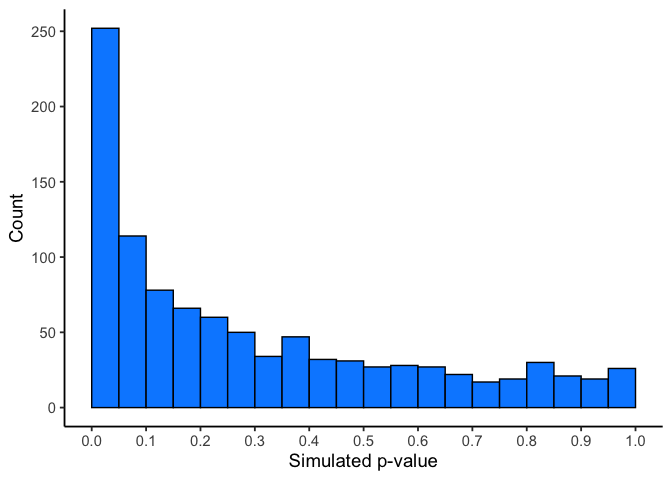
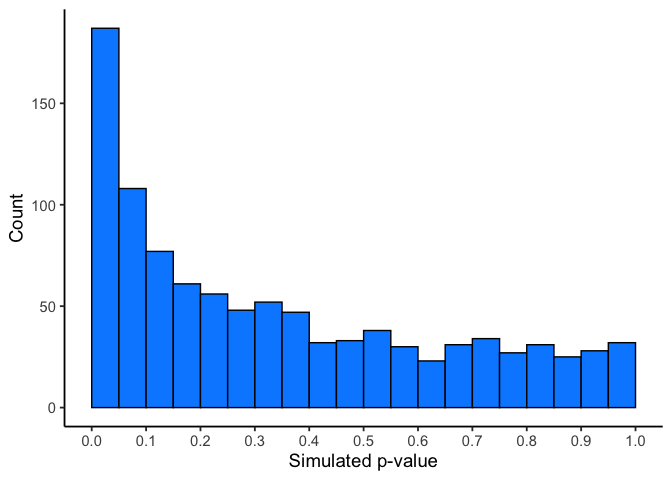
Ch6 simulation section: cut repeats, power becomes a callback to Ch5
Cut fig-6nullt (repeats fig-6t-sim), the replicate() and data-generation
code chunks, the visible power loops, raw count output, and the n = 100
rerun with fig-6simpsB. fig-6flatp gains the Type I tie (first bar = alpha).
fig-6simtrueps now uses Ch5's settings (10 vs 12.5, SD 5, n = 10) with
hidden code. Devices triage 6.13-6.21 / X3, X4.

diff --git a/docs/06-ttests.html b/docs/06-ttests.html
@@ -931,7 +931,7 @@ Table&nbsp;6.1: The three <span class="math inline">\(t\)</span>-tests compared.
 </section>
 <section id="simulating-data-for-t-tests" class="level2" data-number="6.6">
 <h2 data-number="6.6" class="anchored" data-anchor-id="simulating-data-for-t-tests"><span class="header-section-number">6.6</span> Simulating data for t-tests</h2>
-<p>Chapter 4 simulated <em>group mean differences</em> to build a chance window. Here we simulate the test statistic itself, which shows two things the earlier simulation could not: what the null distribution of <span class="math inline">\(t\)</span> looks like, and what happens to <span class="math inline">\(p\)</span>-values when <span class="math inline">\(H_0\)</span> is true.</p>
+<p>Earlier in this chapter we simulated <span class="math inline">\(t\)</span> under <span class="math inline">\(H_0\)</span> and saw its null distribution in <a href="#fig-6t-sim" class="quarto-xref">Figure&nbsp;<span>6.2</span></a>. The same kind of simulation also gives a <span class="math inline">\(p\)</span>-value for each repetition, and those <span class="math inline">\(p\)</span>-values show what a test does when <span class="math inline">\(H_0\)</span> is true and when it is false.</p>
 <p>Simulating under conditions you choose shows how sampling error affects results for a given sample size, expected difference, and amount of variation. Formal power analyses use the same method.</p>
 <section id="simulating-a-one-sample-t-test" class="level3" data-number="6.6.1">
 <h3 data-number="6.6.1" class="anchored" data-anchor-id="simulating-a-one-sample-t-test"><span class="header-section-number">6.6.1</span> Simulating a one-sample t-test</h3>
@@ -940,21 +940,7 @@ Table&nbsp;6.1: The three <span class="math inline">\(t\)</span>-tests compared.
 <li>Decide what the population looks like. Here each sample is 30 sites, with values drawn from a normal distribution with mean 50 and SD 25.</li>
 <li>Draw one sample from that population, run the <span class="math inline">\(t\)</span>-test, and save the statistics you care about (<span class="math inline">\(t\)</span> and <span class="math inline">\(p\)</span>). Repeat 1,000 times and look at how they are distributed.</li>
 </ol>
-<p>Every test compares the sample mean to <span class="math inline">\(\mu_0 = 50\)</span>, which is also the true population mean, so <span class="math inline">\(H_0\)</span> is true in every repetition. <a href="#fig-6nullt" class="quarto-xref">Figure&nbsp;<span>6.8</span></a> is the null distribution of <span class="math inline">\(t\)</span> that this produces.</p>
-<div class="cell">
-<div class="cell-output-display">
-<div id="fig-6nullt" class="quarto-float quarto-figure quarto-figure-center anchored" alt="Histogram of 1000 simulated t statistics from samples with no true effect, symmetric and bell-shaped, centered at zero, with fewer and fewer values as t moves further from zero in either direction.">
-<figure class="quarto-float quarto-float-fig figure">
-<div aria-describedby="fig-6nullt-caption-0ceaefa1-69ba-4598-a22c-09a6ac19f8ca">
-<img src="06-ttests_files/figure-html/fig-6nullt-1.png" class="img-fluid figure-img" style="width:75.0%" alt="Histogram of 1000 simulated t statistics from samples with no true effect, symmetric and bell-shaped, centered at zero, with fewer and fewer values as t moves further from zero in either direction.">
-</div>
-<figcaption class="quarto-float-caption-bottom quarto-float-caption quarto-float-fig" id="fig-6nullt-caption-0ceaefa1-69ba-4598-a22c-09a6ac19f8ca">
-Figure&nbsp;6.8: The distribution of <span class="math inline">\(t\)</span>-values under the null. These are the <span class="math inline">\(t\)</span> values that are produced by chance alone.
-</figcaption>
-</figure>
-</div>
-</div>
-</div>
+<p>Every test compares the sample mean to <span class="math inline">\(\mu_0 = 50\)</span>, which is also the true population mean, so <span class="math inline">\(H_0\)</span> is true in every repetition. <a href="#fig-6flatp" class="quarto-xref">Figure&nbsp;<span>6.8</span></a> shows the 1,000 <span class="math inline">\(p\)</span>-values it produces.</p>
 <div class="cell">
 <div class="cell-output-display">
 <div id="fig-6flatp" class="quarto-float quarto-figure quarto-figure-center anchored" alt="Histogram of 1000 simulated p-values from samples with no true effect, roughly flat across the full range from 0 to 1, with bars of similar height in every bin including the bin closest to zero.">
@@ -963,44 +949,19 @@ Figure&nbsp;6.8: The distribution of <span class="math inline">\(t\)</span>-valu
 <img src="06-ttests_files/figure-html/fig-6flatp-1.png" class="img-fluid figure-img" style="width:75.0%" alt="Histogram of 1000 simulated p-values from samples with no true effect, roughly flat across the full range from 0 to 1, with bars of similar height in every bin including the bin closest to zero.">
 </div>
 <figcaption class="quarto-float-caption-bottom quarto-float-caption quarto-float-fig" id="fig-6flatp-caption-0ceaefa1-69ba-4598-a22c-09a6ac19f8ca">
-Figure&nbsp;6.9: The distribution of <span class="math inline">\(p\)</span>-values that are observed is flat under the null.
+Figure&nbsp;6.8: The distribution of <span class="math inline">\(p\)</span>-values that are observed is flat under the null.
 </figcaption>
 </figure>
 </div>
 </div>
 </div>
-<p>The simulated <span class="math inline">\(t\)</span> values in <a href="#fig-6nullt" class="quarto-xref">Figure&nbsp;<span>6.8</span></a> have the bell shape of a <span class="math inline">\(t\)</span> distribution, centered on zero. The <span class="math inline">\(p\)</span>-values in <a href="#fig-6flatp" class="quarto-xref">Figure&nbsp;<span>6.9</span></a> are flat, as they should be when <span class="math inline">\(H_0\)</span> is true. This means you have the same chance of getting a <span class="math inline">\(t\)</span> with a p-value between 0 and 0.05 as you would of getting one between 0.90 and 0.95. Those ranges are both ranges of 5%, so they hold an equal share of the <span class="math inline">\(t\)</span> values by definition.</p>
-<p>You can write the same simulation more compactly with <code>replicate()</code> instead of a <code>for</code> loop; it produces the same two distributions above:</p>
-<div class="cell">
-<div class="code-copy-outer-scaffold"><div class="sourceCode cell-code" id="cb2"><pre class="sourceCode r code-with-copy"><code class="sourceCode r"><span id="cb2-1"><a href="#cb2-1" aria-hidden="true" tabindex="-1"></a>simulated_ts <span class="ot">&lt;-</span> <span class="fu">replicate</span>(<span class="dv">1000</span>, <span class="fu">t.test</span>(<span class="fu">rnorm</span>(<span class="dv">30</span>, <span class="dv">50</span>, <span class="dv">25</span>), <span class="at">mu =</span> <span class="dv">50</span>)<span class="sc">$</span>statistic)</span>
-<span id="cb2-2"><a href="#cb2-2" aria-hidden="true" tabindex="-1"></a>simulated_ps <span class="ot">&lt;-</span> <span class="fu">replicate</span>(<span class="dv">1000</span>, <span class="fu">t.test</span>(<span class="fu">rnorm</span>(<span class="dv">30</span>, <span class="dv">50</span>, <span class="dv">25</span>), <span class="at">mu =</span> <span class="dv">50</span>)<span class="sc">$</span>p.value)</span></code></pre></div><button title="Copy to Clipboard" class="code-copy-button"><i class="bi"></i></button></div>
-</div>
+<p>The <span class="math inline">\(p\)</span>-values in <a href="#fig-6flatp" class="quarto-xref">Figure&nbsp;<span>6.8</span></a> are flat, as they should be when <span class="math inline">\(H_0\)</span> is true. This means you have the same chance of getting a <span class="math inline">\(t\)</span> with a p-value between 0 and 0.05 as you would of getting one between 0.90 and 0.95. Those ranges are both ranges of 5%, so they hold an equal share of the <span class="math inline">\(t\)</span> values by definition.</p>
+<p>The first bar holds the 45 <span class="math inline">\(p\)</span>-values below 0.05. Each one is a test that rejected a true <span class="math inline">\(H_0\)</span>, a Type I error. Together they make up about 5% of the 1,000, which is the <span class="math inline">\(\alpha\)</span> we chose.</p>
 </section>
 <section id="simulating-paired-and-independent-samples-tests" class="level3" data-number="6.6.2">
 <h3 data-number="6.6.2" class="anchored" data-anchor-id="simulating-paired-and-independent-samples-tests"><span class="header-section-number">6.6.2</span> Simulating paired and independent-samples tests</h3>
 <p>The paired and independent-samples cases behave the same way, because they use the same <span class="math inline">\(t\)</span> calculation on different inputs. A paired test runs a one-sample <span class="math inline">\(t\)</span> on the difference scores; an independent-samples test swaps in the pooled standard error. Simulate either one under <span class="math inline">\(H_0\)</span> and you get the same two pictures: a <span class="math inline">\(t\)</span> distribution centered on zero, and a flat <span class="math inline">\(p\)</span> distribution.</p>
-<p>To adapt the code above, change only the line that generates the data:</p>
-<div class="cell">
-<div class="code-copy-outer-scaffold"><div class="sourceCode cell-code" id="cb3"><pre class="sourceCode r code-with-copy"><code class="sourceCode r"><span id="cb3-1"><a href="#cb3-1" aria-hidden="true" tabindex="-1"></a><span class="co"># paired: one sample of difference scores</span></span>
-<span id="cb3-2"><a href="#cb3-2" aria-hidden="true" tabindex="-1"></a>d <span class="ot">&lt;-</span> <span class="fu">rnorm</span>(<span class="dv">10</span>, <span class="dv">0</span>, <span class="dv">5</span>) <span class="sc">-</span> <span class="fu">rnorm</span>(<span class="dv">10</span>, <span class="dv">0</span>, <span class="dv">5</span>)</span>
-<span id="cb3-3"><a href="#cb3-3" aria-hidden="true" tabindex="-1"></a><span class="fu">t.test</span>(d, <span class="at">mu =</span> <span class="dv">0</span>)<span class="sc">$</span>p.value</span>
-<span id="cb3-4"><a href="#cb3-4" aria-hidden="true" tabindex="-1"></a></span>
-<span id="cb3-5"><a href="#cb3-5" aria-hidden="true" tabindex="-1"></a><span class="co"># independent samples: two separate groups</span></span>
-<span id="cb3-6"><a href="#cb3-6" aria-hidden="true" tabindex="-1"></a><span class="fu">t.test</span>(<span class="fu">rnorm</span>(<span class="dv">10</span>, <span class="dv">10</span>, <span class="dv">5</span>), <span class="fu">rnorm</span>(<span class="dv">10</span>, <span class="dv">10</span>, <span class="dv">5</span>), <span class="at">var.equal =</span> <span class="cn">TRUE</span>)<span class="sc">$</span>p.value</span></code></pre></div><button title="Copy to Clipboard" class="code-copy-button"><i class="bi"></i></button></div>
-</div>
-<p>Next, give one condition a larger mean than the other, so the simulated data contain a real difference:</p>
-<div class="cell">
-<div class="code-copy-outer-scaffold"><div class="sourceCode cell-code" id="cb4"><pre class="sourceCode r code-with-copy"><code class="sourceCode r"><span id="cb4-1"><a href="#cb4-1" aria-hidden="true" tabindex="-1"></a></span>
-<span id="cb4-2"><a href="#cb4-2" aria-hidden="true" tabindex="-1"></a>save_ps <span class="ot">&lt;-</span> <span class="fu">numeric</span>(<span class="dv">1000</span>)</span>
-<span id="cb4-3"><a href="#cb4-3" aria-hidden="true" tabindex="-1"></a>save_ts <span class="ot">&lt;-</span> <span class="fu">numeric</span>(<span class="dv">1000</span>)</span>
-<span id="cb4-4"><a href="#cb4-4" aria-hidden="true" tabindex="-1"></a><span class="cf">for</span> ( i <span class="cf">in</span> <span class="dv">1</span><span class="sc">:</span><span class="dv">1000</span> ){</span>
-<span id="cb4-5"><a href="#cb4-5" aria-hidden="true" tabindex="-1"></a>  condition_A <span class="ot">&lt;-</span> <span class="fu">rnorm</span>(<span class="dv">10</span>,<span class="dv">10</span>,<span class="dv">5</span>)</span>
-<span id="cb4-6"><a href="#cb4-6" aria-hidden="true" tabindex="-1"></a>  condition_B <span class="ot">&lt;-</span> <span class="fu">rnorm</span>(<span class="dv">10</span>,<span class="dv">13</span>,<span class="dv">5</span>)</span>
-<span id="cb4-7"><a href="#cb4-7" aria-hidden="true" tabindex="-1"></a>  t_test <span class="ot">&lt;-</span> <span class="fu">t.test</span>(condition_A, condition_B, <span class="at">var.equal =</span> <span class="cn">TRUE</span>)</span>
-<span id="cb4-8"><a href="#cb4-8" aria-hidden="true" tabindex="-1"></a>  save_ps[i] <span class="ot">&lt;-</span> t_test<span class="sc">$</span>p.value</span>
-<span id="cb4-9"><a href="#cb4-9" aria-hidden="true" tabindex="-1"></a>  save_ts[i] <span class="ot">&lt;-</span> t_test<span class="sc">$</span>statistic</span>
-<span id="cb4-10"><a href="#cb4-10" aria-hidden="true" tabindex="-1"></a>}</span></code></pre></div><button title="Copy to Clipboard" class="code-copy-button"><i class="bi"></i></button></div>
-</div>
+<p>Chapter 5 simulated 1,000 experiments with a real difference (two groups of 10, means 10 and 12.5, SD 5) and counted how often <span class="math inline">\(p &lt; 0.05\)</span> to estimate power. <a href="#fig-6simtrueps" class="quarto-xref">Figure&nbsp;<span>6.9</span></a> shows the 1,000 <span class="math inline">\(p\)</span>-values from the same setup.</p>
 <div class="cell">
 <div class="cell-output-display">
 <div id="fig-6simtrueps" class="quarto-float quarto-figure quarto-figure-center anchored" alt="Histogram of 1000 simulated p-values from samples of size 10 with a real underlying difference. Unlike the flat null histogram, this one is right-skewed, with the tallest bars near zero and progressively shorter bars moving toward 1.">
@@ -1009,49 +970,13 @@ Figure&nbsp;6.9: The distribution of <span class="math inline">\(p\)</span>-valu
 <img src="06-ttests_files/figure-html/fig-6simtrueps-1.png" class="img-fluid figure-img" style="width:75.0%" alt="Histogram of 1000 simulated p-values from samples of size 10 with a real underlying difference. Unlike the flat null histogram, this one is right-skewed, with the tallest bars near zero and progressively shorter bars moving toward 1.">
 </div>
 <figcaption class="quarto-float-caption-bottom quarto-float-caption quarto-float-fig" id="fig-6simtrueps-caption-0ceaefa1-69ba-4598-a22c-09a6ac19f8ca">
-Figure&nbsp;6.10: 1,000 simulated <span class="math inline">\(p\)</span>-values (<span class="math inline">\(n = 10\)</span>) when there is a true difference.
+Figure&nbsp;6.9: 1,000 simulated <span class="math inline">\(p\)</span>-values (<span class="math inline">\(n = 10\)</span> per group) when there is a true difference.
 </figcaption>
 </figure>
 </div>
 </div>
 </div>
-<p>With a real difference, the <span class="math inline">\(p\)</span>-values pile up near 0, with a long tail toward 1. A true effect produces larger <span class="math inline">\(t\)</span> values than chance alone would, so <span class="math inline">\(p\)</span>-values below 0.05 turn up more often.</p>
-<p>Here <span class="math inline">\(H_0\)</span> is false, so rejecting it when <span class="math inline">\(p &lt; 0.05\)</span> is a correct decision, not a Type I error. The code below counts how often that happens in the 1,000 experiments.</p>
-<div class="cell">
-<div class="code-copy-outer-scaffold"><div class="sourceCode cell-code" id="cb5"><pre class="sourceCode r code-with-copy"><code class="sourceCode r"><span id="cb5-1"><a href="#cb5-1" aria-hidden="true" tabindex="-1"></a><span class="fu">length</span>(save_ps[save_ps<span class="sc">&lt;</span>.<span class="dv">05</span>])</span>
-<span id="cb5-2"><a href="#cb5-2" aria-hidden="true" tabindex="-1"></a><span class="co">#&gt; [1] 252</span></span>
-<span id="cb5-3"><a href="#cb5-3" aria-hidden="true" tabindex="-1"></a><span class="fu">length</span>(save_ps[save_ps<span class="sc">&lt;</span>.<span class="dv">05</span>])<span class="sc">/</span><span class="dv">1000</span></span>
-<span id="cb5-4"><a href="#cb5-4" aria-hidden="true" tabindex="-1"></a><span class="co">#&gt; [1] 0.252</span></span></code></pre></div><button title="Copy to Clipboard" class="code-copy-button"><i class="bi"></i></button></div>
-</div>
-<p>We got 252 simulations where p was less than 0.05, or 25.2% of experiments. That percentage is the design’s power. A study with power this low will usually miss a difference that is really there, so running it as designed spends the time and money of data collection on a result that is most likely to come back not significant. Improve the design before you run it.</p>
-<p>The most direct lever is <span class="math inline">\(n\)</span>, the number of subjects. Let’s increase <span class="math inline">\(n\)</span> from 10 to 100 and see what happens to the number of “significant” simulated experiments.</p>
-<div class="cell">
-<div class="code-copy-outer-scaffold"><div class="sourceCode cell-code" id="cb6"><pre class="sourceCode r code-with-copy"><code class="sourceCode r"><span id="cb6-1"><a href="#cb6-1" aria-hidden="true" tabindex="-1"></a></span>
-<span id="cb6-2"><a href="#cb6-2" aria-hidden="true" tabindex="-1"></a>save_ps <span class="ot">&lt;-</span> <span class="fu">numeric</span>(<span class="dv">1000</span>)</span>
-<span id="cb6-3"><a href="#cb6-3" aria-hidden="true" tabindex="-1"></a>save_ts <span class="ot">&lt;-</span> <span class="fu">numeric</span>(<span class="dv">1000</span>)</span>
-<span id="cb6-4"><a href="#cb6-4" aria-hidden="true" tabindex="-1"></a><span class="cf">for</span> ( i <span class="cf">in</span> <span class="dv">1</span><span class="sc">:</span><span class="dv">1000</span> ){</span>
-<span id="cb6-5"><a href="#cb6-5" aria-hidden="true" tabindex="-1"></a>  condition_A <span class="ot">&lt;-</span> <span class="fu">rnorm</span>(<span class="dv">100</span>,<span class="dv">10</span>,<span class="dv">5</span>)</span>
-<span id="cb6-6"><a href="#cb6-6" aria-hidden="true" tabindex="-1"></a>  condition_B <span class="ot">&lt;-</span> <span class="fu">rnorm</span>(<span class="dv">100</span>,<span class="dv">13</span>,<span class="dv">5</span>)</span>
-<span id="cb6-7"><a href="#cb6-7" aria-hidden="true" tabindex="-1"></a>  t_test <span class="ot">&lt;-</span> <span class="fu">t.test</span>(condition_A, condition_B, <span class="at">var.equal =</span> <span class="cn">TRUE</span>)</span>
-<span id="cb6-8"><a href="#cb6-8" aria-hidden="true" tabindex="-1"></a>  save_ps[i] <span class="ot">&lt;-</span> t_test<span class="sc">$</span>p.value</span>
-<span id="cb6-9"><a href="#cb6-9" aria-hidden="true" tabindex="-1"></a>  save_ts[i] <span class="ot">&lt;-</span> t_test<span class="sc">$</span>statistic</span>
-<span id="cb6-10"><a href="#cb6-10" aria-hidden="true" tabindex="-1"></a>}</span></code></pre></div><button title="Copy to Clipboard" class="code-copy-button"><i class="bi"></i></button></div>
-</div>
-<div class="cell">
-<div class="cell-output-display">
-<div id="fig-6simpsB" class="quarto-float quarto-figure quarto-figure-center anchored" alt="Histogram of 1000 simulated p-values from samples of size 100 with the same real underlying difference as the previous figure. Almost every simulation now produces a p-value near zero, with a tall spike in the leftmost bin and almost nothing anywhere else.">
-<figure class="quarto-float quarto-float-fig figure">
-<div aria-describedby="fig-6simpsB-caption-0ceaefa1-69ba-4598-a22c-09a6ac19f8ca">
-<img src="06-ttests_files/figure-html/fig-6simpsB-1.png" class="img-fluid figure-img" style="width:75.0%" alt="Histogram of 1000 simulated p-values from samples of size 100 with the same real underlying difference as the previous figure. Almost every simulation now produces a p-value near zero, with a tall spike in the leftmost bin and almost nothing anywhere else.">
-</div>
-<figcaption class="quarto-float-caption-bottom quarto-float-caption quarto-float-fig" id="fig-6simpsB-caption-0ceaefa1-69ba-4598-a22c-09a6ac19f8ca">
-Figure&nbsp;6.11: 1,000 simulated <span class="math inline">\(p\)</span>-values (<span class="math inline">\(n = 100\)</span>) when there is a true difference.
-</figcaption>
-</figure>
-</div>
-</div>
-</div>
-<p>Now almost all of the experiments (993 of 1000) show a <span class="math inline">\(p\)</span>-value of less than 0.05 (using a two-tailed test, the default in R). You can use this simulation process to determine how many subjects you need to reliably detect your effect.</p>
+<p>With a real difference, the <span class="math inline">\(p\)</span>-values pile up near 0, while under <span class="math inline">\(H_0\)</span> in <a href="#fig-6flatp" class="quarto-xref">Figure&nbsp;<span>6.8</span></a> they spread evenly from 0 to 1. Here <span class="math inline">\(H_0\)</span> is false, so rejecting it is a correct decision, not a Type I error. The first bar holds the 187 experiments that rejected <span class="math inline">\(H_0\)</span>, and their share of the 1,000 is the design’s power. The other 813 missed a difference that was really there. Chapter 5 showed how a larger sample raises power.</p>
 </section>
 </section>
 <section id="chapter-summary" class="level2" data-number="6.7">
